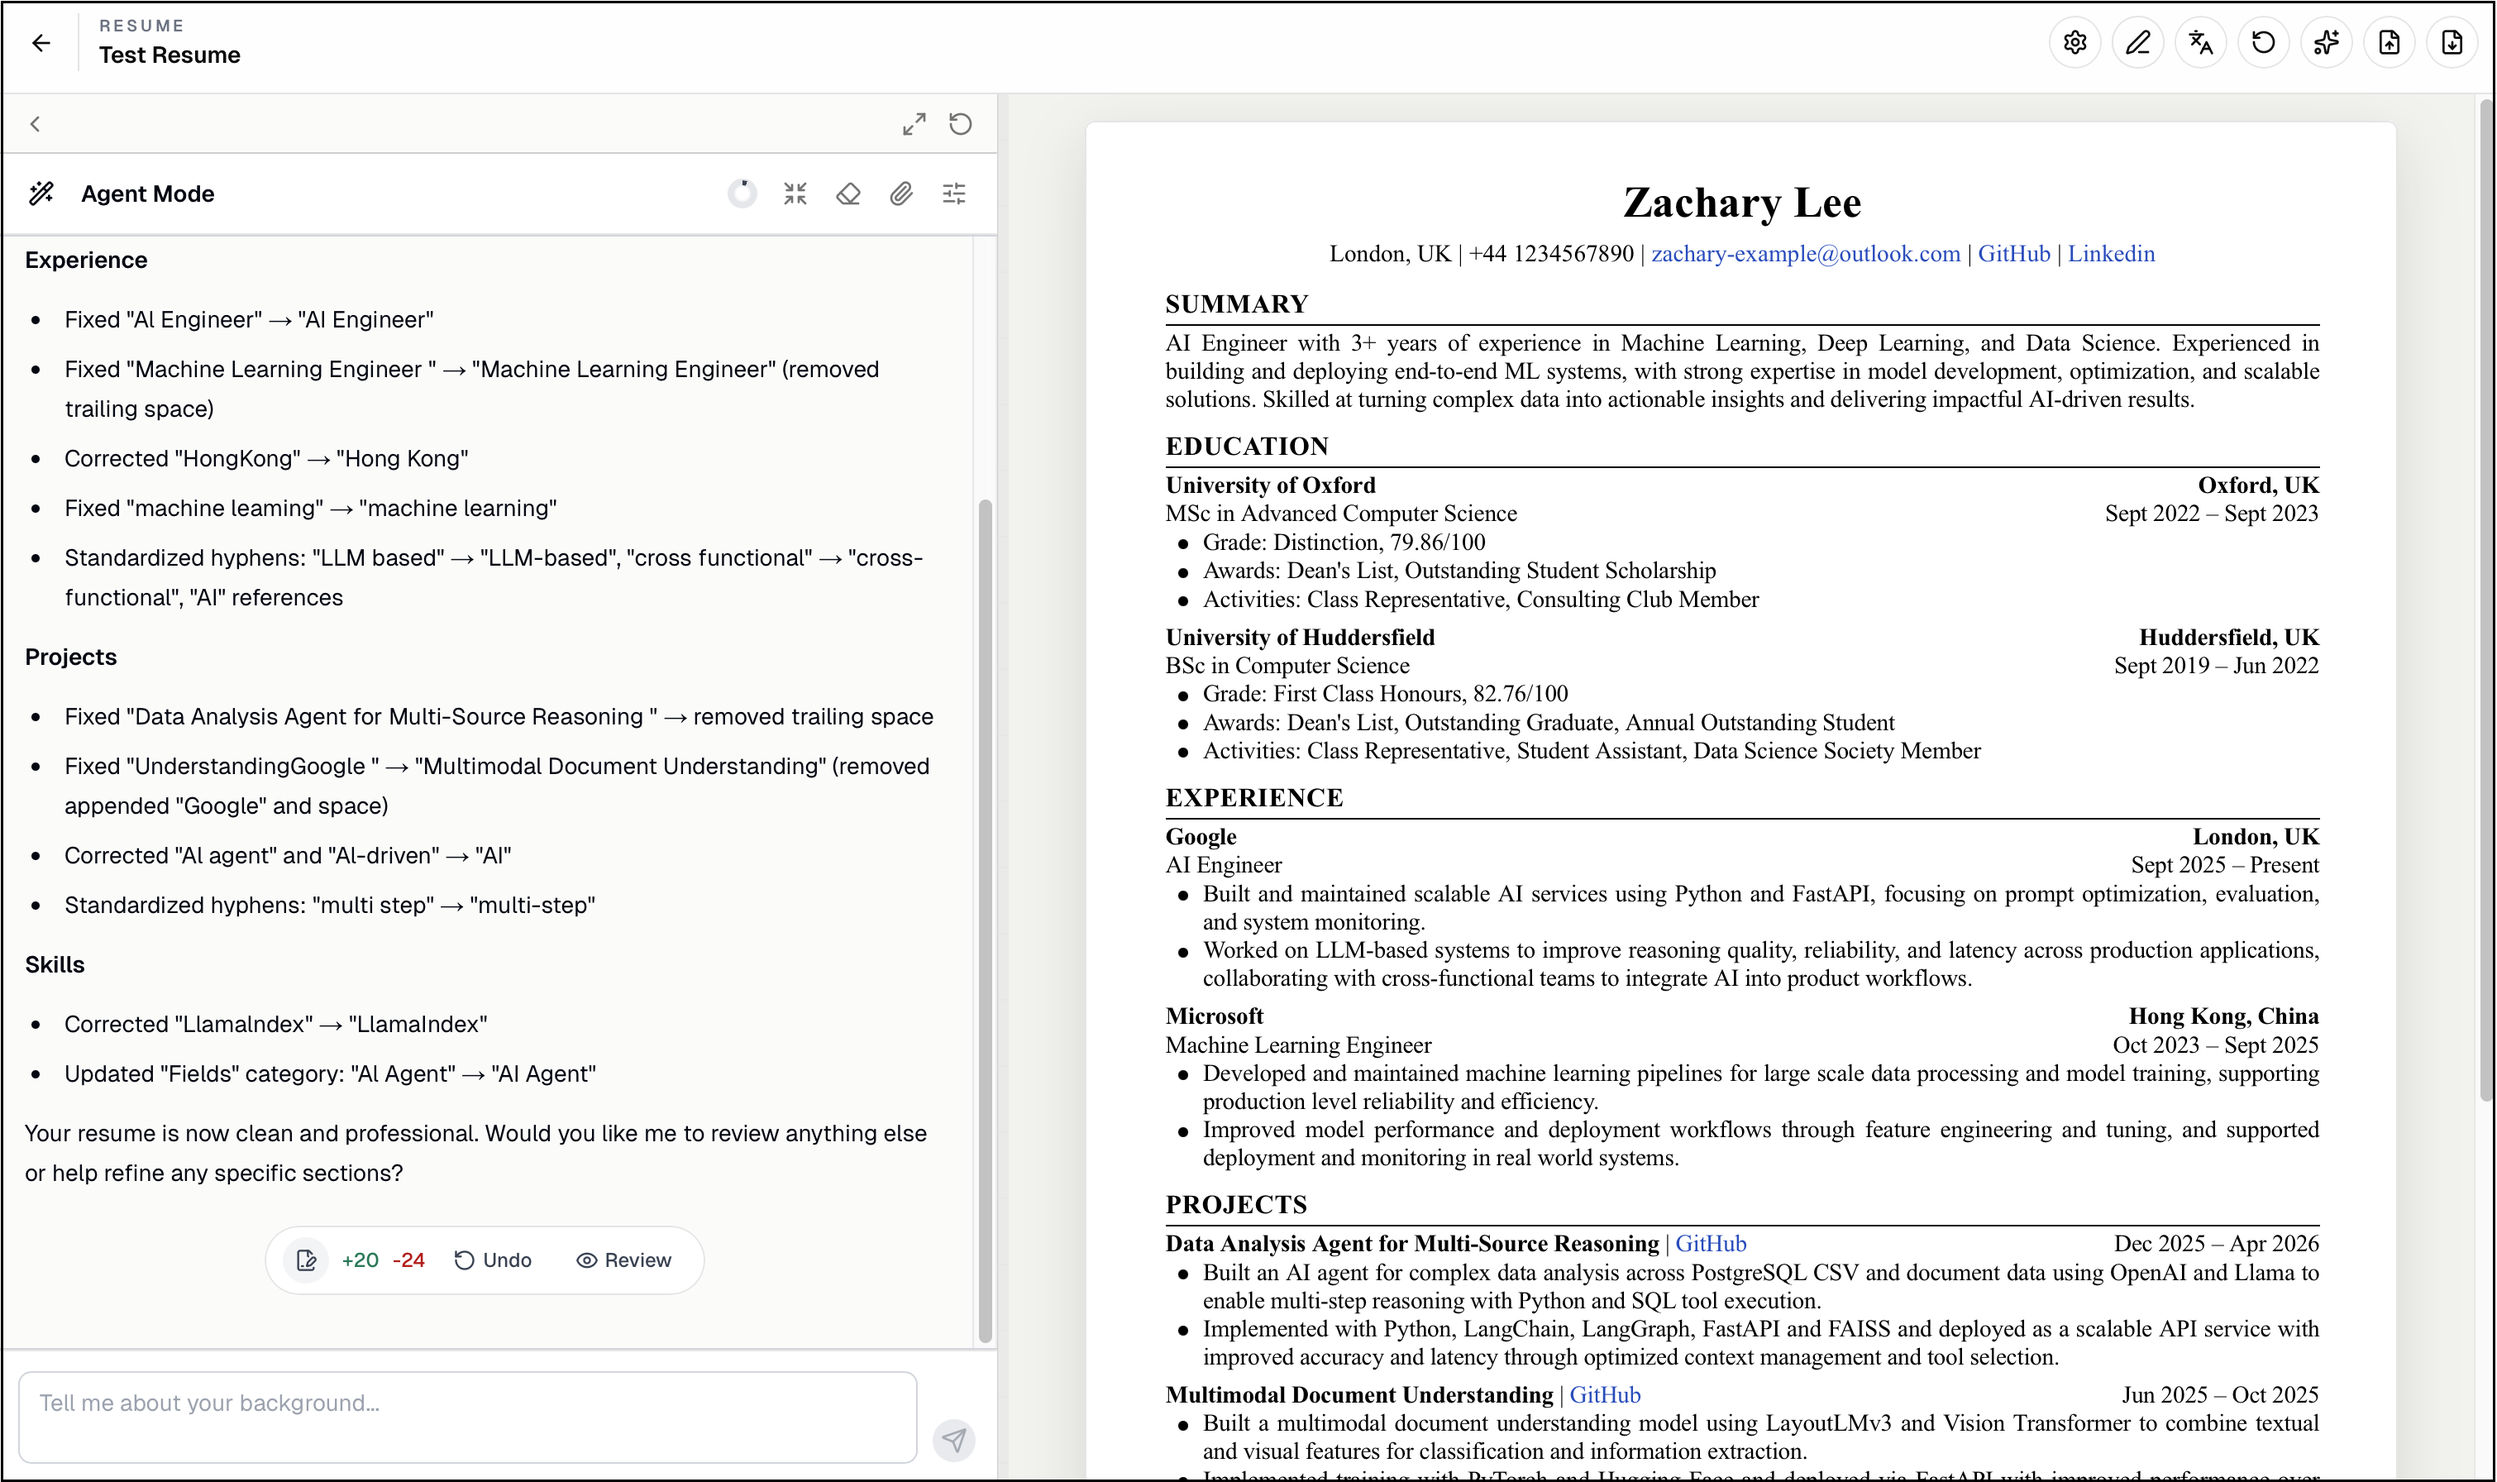
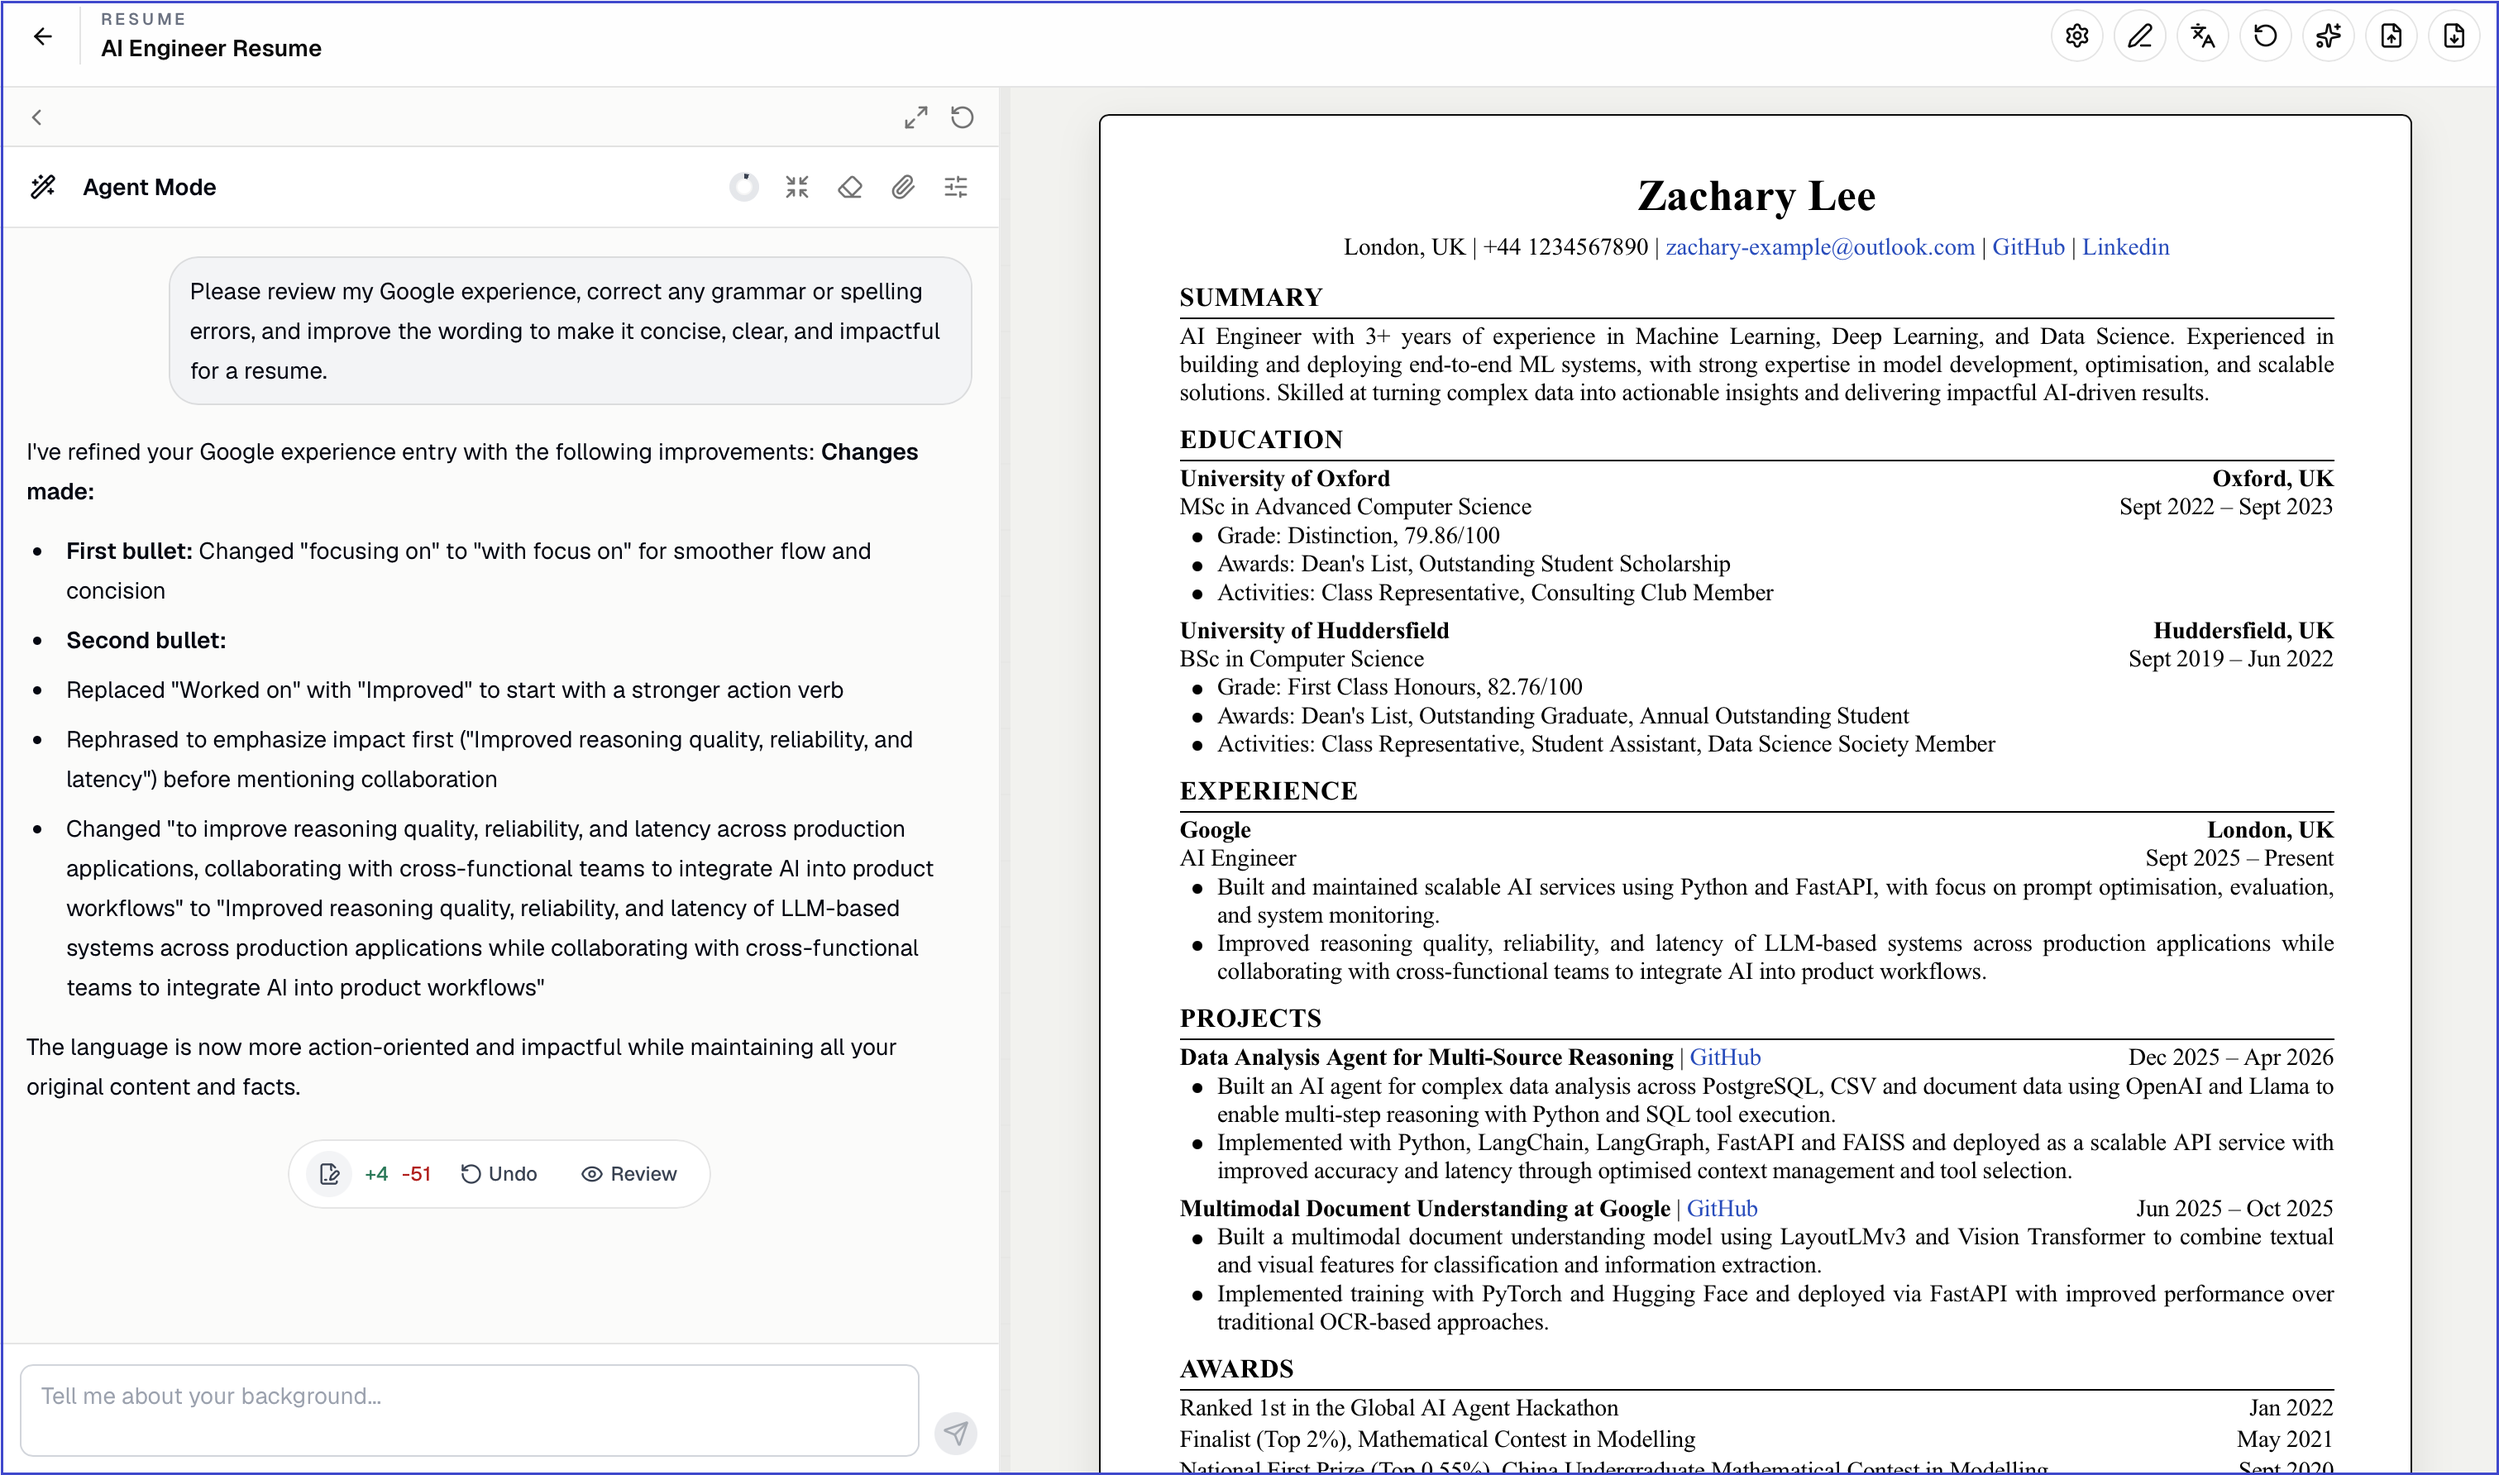
docs: update agent guidance and screenshot (#131)

diff --git a/AGENTS.md b/AGENTS.md
@@ -100,7 +100,7 @@ Before implementing a feature, follow this workflow:
 Guidelines:
 
 1. Issue and pull request descriptions should be concise, clear, and written in English. Avoid redundant details and dashes.
-2. Commit messages should be one clear English sentence. Avoid dashes.
+2. Commit messages should be one clear English sentence. Avoid dashes. For example, "git commit -m "feat: xxxxx (#\[issue-number\])""
 3. Always request approval before creating a new branch, before each push, and before opening a pull request.
 4. After opening a pull request, request review. Once the user approves and the pull request is merged, remind the user to remove the redundant branch.
 
